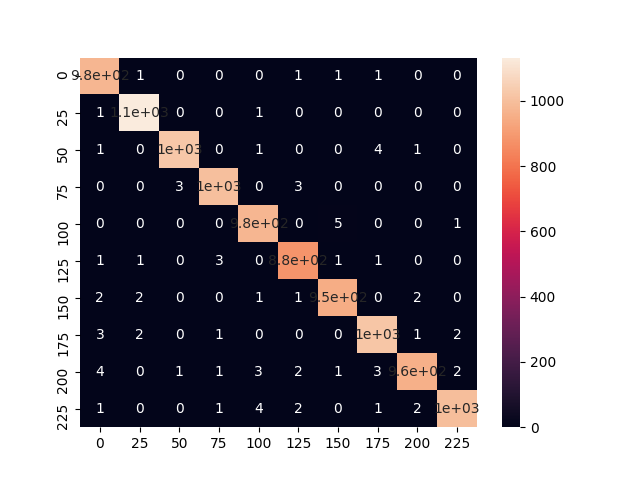
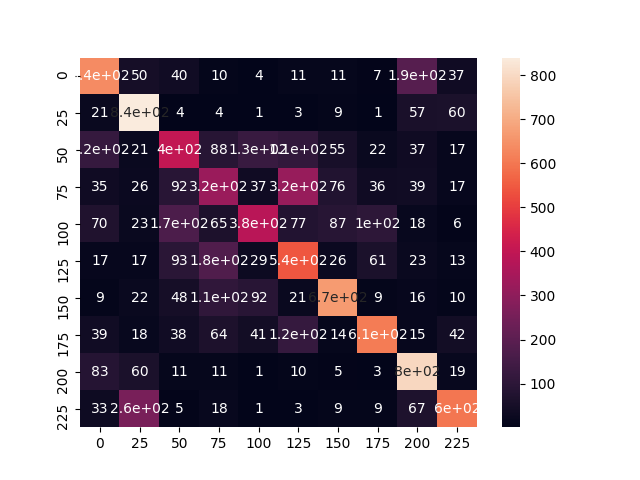
surro to distance averaging

diff --git a/main.py b/main.py
@@ -44,7 +44,7 @@ def train(network, trainloader, opti, epoch, states, network_config, layers_conf
         if n_steps >= 10:
             desired_spikes = torch.tensor([0, 1, 0, 1, 0, 1, 0, 1, 0, 1]).repeat(int(n_steps/10))
         else:
-            desired_spikes = torch.tensor([0, 1, 1, 1, 1]).repeat(int(n_steps/5))
+            desired_spikes = torch.tensor([1, 1, 1, 1, 1]).repeat(int(n_steps/5))
         desired_spikes = desired_spikes.view(1, 1, 1, 1, n_steps).to(device)
         desired_spikes = loss_f.psp(desired_spikes, network_config).view(1, 1, 1, n_steps)
     des_str = "Training @ epoch " + str(epoch)
@@ -195,7 +195,7 @@ if __name__ == '__main__':
 
     # Check whether a GPU is available
     if torch.cuda.is_available():
-        device = 2 #torch.device("cuda")
+        device = 1#torch.device("cuda")
         cuda.init()
         c_device = aboutCudaDevices()
         print(c_device.info())

diff --git a/functions/tsslbp.py b/functions/tsslbp.py
@@ -59,9 +59,10 @@ class TSSLBP(torch.autograd.Function):
         neighbors_syns_posts = nb.neighbors_syns_posts(neighbors)
         projects = nb.projects(neighbors_syns_posts, syns_posts, grad_delta)
         projects = projects.T.view(shape)
-        sig = nb.sigmoid(u, 2)
-        sig_grad = sig * (1 - sig) * 0.5
-        grad = projects * (outputs - 0.5) * 2 * sig_grad
+        #sig = nb.sigmoid(u, 2)
+        #sig_grad = sig * (1 - sig) * 0.5
+        dist_aggregate_factor = 0.2/(torch.abs(u-threshold)+0.2)
+        grad = projects * (outputs - 0.5) * 2 * dist_aggregate_factor#sig_grad
         """
         best_neighbor = torch.argmax(projects, dim=0)
         #neighbors = neighbors.view(neuron_num * n_steps, -1)
